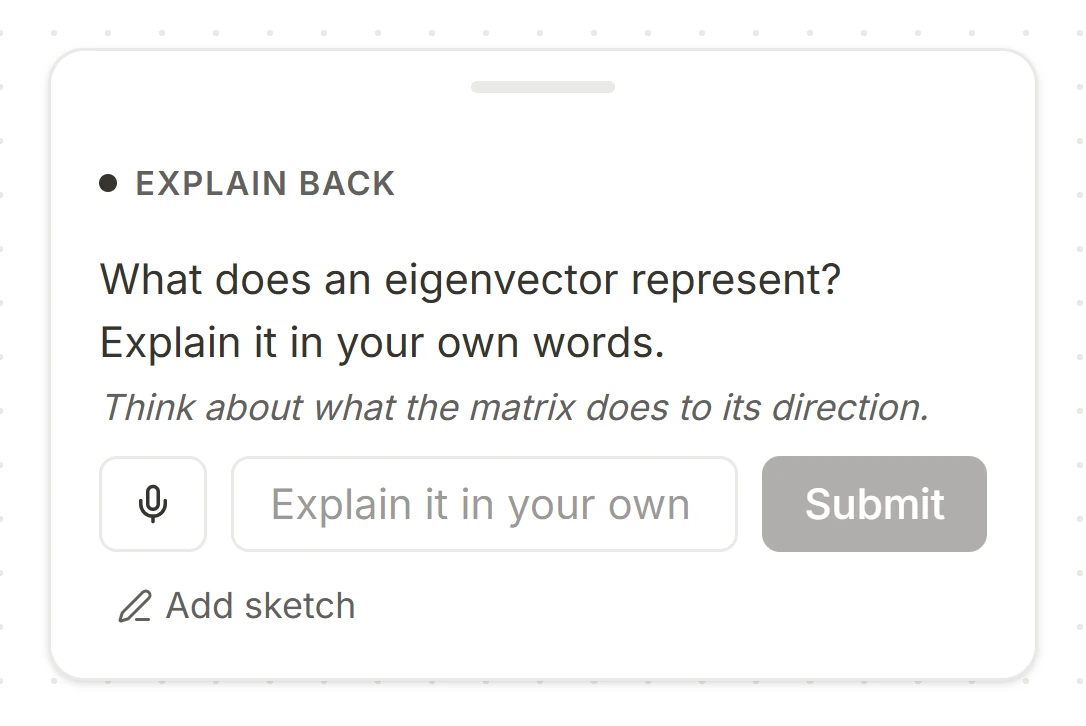
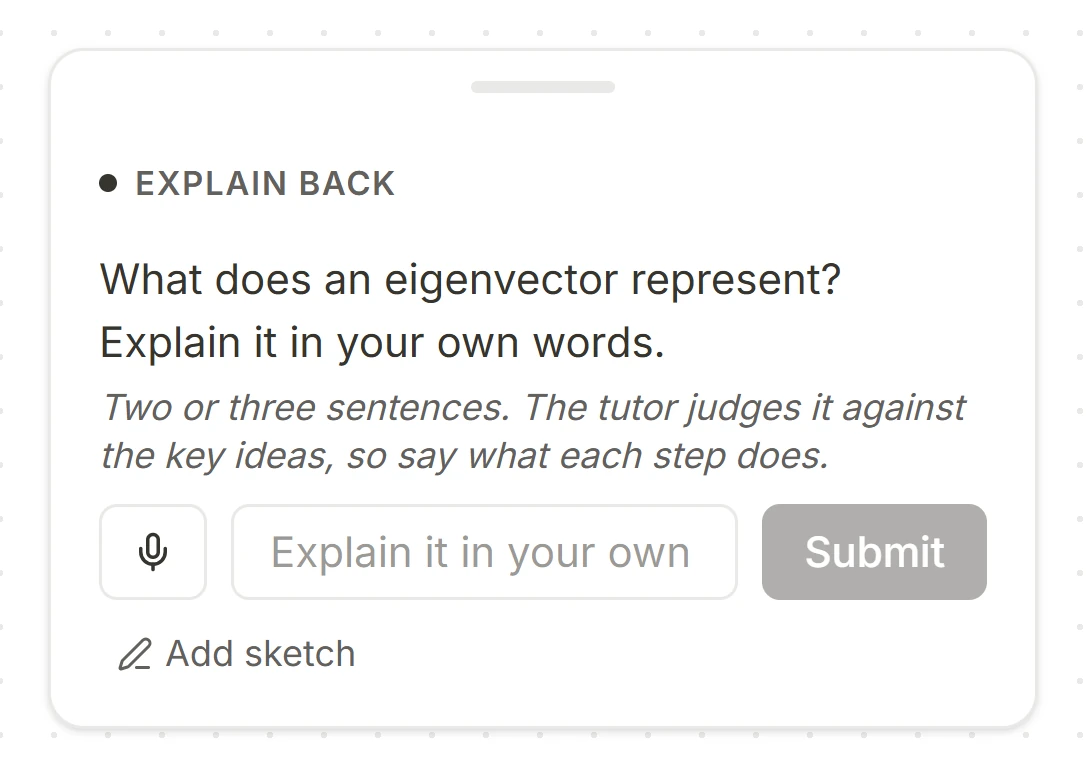
landing: Content creators view replaces Creators & writers; exam card uses the product's own hint line

diff --git a/packages/web/src/landing/audiences.js b/packages/web/src/landing/audiences.js
@@ -4,7 +4,7 @@ import './audiences.css';
 // `kind`) carry real captures of Rabbit Hole cards; the other two keep their neutral canvas placeholders. No
 // model calls or working product interactions inside these previews.
 const audiences = [
-  { name: 'Creators & writers', title: 'For creators & writers.', benefit: 'Turn deep research into something worth sharing.', context: 'Essays, newsletters and videos', source: 'Research & references', question: 'How do I explain attention clearly?', result: 'A clearer explanation', path: 'Research → understanding → your next story', note: 'Follow the idea back to its source.' },
+  { name: 'Content creators', kind: 'creators', title: 'Give your audience more to explore.', benefit: 'Share your knowledge and learn from your audience.' },
   { name: 'AI / ML engineers', kind: 'ml', title: 'From the paper to the code.', benefit: 'Understand new ideas and apply them to your work.' },
   { name: 'Educators', kind: 'educators', title: 'Prepare your next lesson.', benefit: 'Support for planning, explaining and teaching.' },
   { name: 'University students', kind: 'university', title: 'For university students.', benefit: 'Support for your coursework, assignments and exams.' },
@@ -40,7 +40,7 @@ const situations = [
     title: 'Understand a lecture.', question: '“How did they get from this equation to the next?”', support: 'Work through the missing steps using your lecture material.' },
   { name: 'problems', w: 500, h: 360, phone: [352, 350], alt: 'Rabbit Hole’s PDF reader open on Problem set 03: find the eigenvalues of A, where A is the two-by-two matrix with first row 2, 1 and second row 1, 2.',
     title: 'Work through an assignment.', question: '“I followed the example. Why can’t I solve this one?”', support: 'Get guidance where you’re stuck and practise applying the idea.' },
-  { name: 'eigen', w: 472, h: 242, phone: [362, 242], alt: 'A Rabbit Hole explain-back card asking: What does an eigenvector represent? Explain it in your own words. The answer field is empty.',
+  { name: 'eigen', w: 472, h: 258, phone: [362, 258], alt: 'A Rabbit Hole explain-back card asking: What does an eigenvector represent? Explain it in your own words. The answer field is empty.',
     title: 'Prepare for an exam.', question: '“Could I explain this without looking at my notes?”', support: 'Explain it back, answer practice questions and identify gaps.' },
 ];
 const layouts = {
@@ -52,6 +52,24 @@ const layouts = {
       <figure class="aud-capture aud-code" data-no-swipe><div class="aud-pan">${img('code', 672, 287, 'A Rabbit Hole code card for model.py, lines 66 to 71 of karpathy/nanoGPT: the manual attention calculation. It multiplies the queries by the transposed keys and scales by 1.0 / math.sqrt(k.size(-1)), applies a causal mask, takes a softmax and multiplies by the values.')}<span class="aud-mark aud-mark-l67" aria-hidden="true"></span><span class="aud-mark aud-mark-l69" aria-hidden="true"></span><span class="aud-mark aud-mark-l71" aria-hidden="true"></span></div></figure>
       <svg class="aud-links" viewBox="0 0 1000 320" preserveAspectRatio="none" aria-hidden="true"><path d="M440 235.5 C482 235.5 488 230.6 530 230.6"/><path d="M440 235.5 C482 235.5 488 258.5 530 258.5"/><path d="M440 235.5 C482 235.5 488 286.5 530 286.5"/></svg>
       <p class="aud-ask">Why divide by √d<sub>k</sub>?</p></div>`,
+  creators: () => `<div class="audience-body aud-creators">
+      <div class="aud-post"><p class="aud-label">Your post</p>
+        <article class="aud-postcard" aria-label="Example post by an example creator">
+          <header><span class="aud-avatar" aria-hidden="true">EC</span><span><strong>Example Creator</strong><small>Audio explainers</small></span></header>
+          <p>What changes when you reverse an audio recording?</p>
+          <p>I put the explanation in a Rabbit Hole canvas so you can explore it and try your own version.</p>
+          <img src="/landing/audience-creators-post-v1.webp" width="1200" height="640" alt="The post’s picture: two spectrograms of the same synthetic plucked tone, Original and Reversed. The reversed one is the original mirrored left to right." loading="lazy" decoding="async" draggable="false">
+          <div class="aud-postlink"><strong>Audio reversal: waveform and spectrum</strong><span>rabbit-hole.example/e/AudioRev7kQ2mX9pL4tNdE</span></div>
+        </article></div>
+      <span class="aud-arrow aud-arrow-1" aria-hidden="true">→</span>
+      <div class="aud-shared"><p class="aud-label">Your shared canvas</p>
+        <figure class="aud-capture">${img('creators-canvas', 1120, 580, 'The shared Rabbit Hole canvas Audio reversal: waveform and spectrum, opened from the post. The header shows the creator’s @handle, a Star button with a count of 1 and Fork with a count of 1. The canvas holds an Explanation card with bar charts of the loudness over time, original and reversed, and the same spectrum for both. The Comments panel shows a reader’s comment: what happens if you reverse only part of the audio?', [390, 600])}
+          <img class="aud-only-phone" src="/landing/audience-creators-comment-phone-v1.webp" width="390" height="236" alt="The reader’s comment in the Comments panel: what happens if you reverse only part of the audio?" loading="lazy" decoding="async" draggable="false"></figure></div>
+      <span class="aud-arrow aud-arrow-2" aria-hidden="true">→</span>
+      <div class="aud-engage"><p class="aud-label">What your audience explores</p>
+        <figure class="aud-capture">${img('creators-fork', 431, 252, 'A reader’s fork in their Rabbit Hole Library: What if only part is reversed? It reads Forked from Audio reversal: waveform and spectrum, with the original creator’s @handle.')}</figure>
+        <p class="aud-idea">An idea for the next post</p>
+        <figure class="aud-capture">${img('creators-engagement', 431, 346, 'The creator’s own profile: the Canvases tab and their public canvas Audio reversal: waveform and spectrum, with a Star button showing 1 and the footer 1 fork.')}</figure></div></div>`,
   interview: () => `<div class="audience-body aud-interview"><figure class="aud-capture">${img('twosum', 672, 312, 'A Rabbit Hole explain-back card for Two Sum. Question: You used a hash map instead of checking every pair. Why? What’s the trade-off? The learner’s answer: i can check if the other number is already in the map instead of going through the whole list again. Feedback under Understanding evidence: That explains the speed advantage. What happens to memory usage as you store more numbers?', [362, 374])}</figure></div>`,
   educators: () => `<div class="audience-body aud-educators">
       <div class="aud-source"><p class="aud-label">Your lecture slide</p><figure class="aud-capture">${img('slide', 500, 345, 'Rabbit Hole’s PDF reader open on linear-algebra-eigenvectors-slide.pdf: a lecture slide titled Eigenvectors with Av = λv, v ≠ 0, the sentence The transformation scales v by λ, and an example matrix with first row 2, 0 and second row 0, 1.', [352, 340])}</figure>

diff --git a/packages/web/src/landing/audiences.css b/packages/web/src/landing/audiences.css
@@ -137,3 +137,32 @@
   .aud-mark-eq{left:22.5%;top:80.8%;width:55%;height:11%}
   .aud-label{font-size:11px}
 }
+
+/* Content creators: post -> shared canvas -> audience participation. The post is landing layout (a neutral example, no brand); the canvas,
+   fork card and profile card are real Rabbit Hole captures. The shared canvas carries most of the weight; the arrows are decoration. */
+.aud-creators{align-self:center;justify-self:center;width:min(1320px,calc(100% + 140px),calc(100vw - 48px));display:grid;grid-template-columns:minmax(0,18.5fr) minmax(0,59.5fr) minmax(0,20.5fr);column-gap:24px;align-items:start;position:relative}
+.aud-creators .aud-capture img+img{border-top:1px solid var(--audience-line)}
+.aud-postcard{display:flex;flex-direction:column;gap:8px;padding:12px;border:1px solid var(--audience-line);border-radius:10px;background:#fff;font:400 13px/1.45 var(--ui);color:var(--audience-ink)}
+.aud-postcard header{display:flex;align-items:center;gap:8px}
+.aud-postcard header span:last-child{display:flex;flex-direction:column;line-height:1.25}
+.aud-postcard small{font-size:11px;color:var(--audience-muted)}
+.aud-postcard p{margin:0}
+.aud-avatar{display:grid;place-items:center;flex:none;width:32px;height:32px;border-radius:50%;background:var(--audience-blush);color:#70515c;font:600 11px/1 var(--ui)}
+.aud-postcard img{display:block;width:100%;height:auto;border-radius:6px;border:1px solid var(--audience-line)}
+.aud-postlink{display:flex;flex-direction:column;gap:2px;padding:8px 10px;border-radius:6px;background:#f4f3ef}
+.aud-postlink strong{font-weight:500;font-size:13px}
+.aud-postlink span{font-size:11px;color:var(--audience-muted);word-break:break-all}
+.aud-arrow{position:absolute;top:50%;color:#ba788f;font:400 18px/1 var(--ui);pointer-events:none}
+.aud-arrow-1{left:calc(18.5% + 4px)}.aud-arrow-2{left:calc(78% + 4px)}
+.aud-shared{margin-top:18px}
+.aud-engage .aud-capture{margin:0}
+.aud-idea{margin:10px 0 10px;padding-left:10px;border-left:2px solid #d8b9c3;font:500 13px/1.4 var(--ui);color:#70515c}
+.aud-capture img.aud-only-phone{display:none}
+@media(max-width:1100px){.aud-creators{column-gap:16px}.aud-arrow{display:none}}
+@media(max-width:900px){
+  .aud-creators{width:100%;display:flex;flex-direction:column;gap:28px}
+  .aud-arrow{display:none}
+  .aud-shared{margin-top:0}
+  .aud-capture img.aud-only-phone{display:block}
+  .aud-postcard{max-width:420px}
+}

diff --git a/packages/web/design/rabbit-hole-hero.html b/packages/web/design/rabbit-hole-hero.html
@@ -229,7 +229,7 @@ torch.softmax(scores, dim=-1)</pre></div>
         <div class="audience-navigation"><button type="button" data-audience-prev aria-label="Previous audience" aria-controls="audience-stories"><span aria-hidden="true">←</span></button><button type="button" data-audience-next aria-label="Next audience" aria-controls="audience-stories"><span class="audience-next-label">AI / ML engineers</span><span aria-hidden="true">→</span></button></div>
       </div>
       <p class="audience-announcement" role="status" aria-live="polite" aria-atomic="true"></p>
-      <noscript><p>For creators and writers, AI/ML engineers, educators, university students, new engineers and interview preparation. Explore the <a href="/features">features</a> to find your starting point.</p></noscript>
+      <noscript><p>For content creators, AI/ML engineers, educators, university students, new engineers and interview preparation. Explore the <a href="/features">features</a> to find your starting point.</p></noscript>
     </div>
   </section>
 

diff --git a/docs/features/rabbit-hole-audiences.md b/docs/features/rabbit-hole-audiences.md
@@ -64,3 +64,16 @@ Enterprise onboarding keep the placeholder. Brief: C:/s/spec/landing-audiences/B
 - Pinned scrolling now needs a viewport at least 880px tall (was 760px) because these layouts need about 590px of
   slide area; shorter screens use the manual selector, arrows and swipe. In manual mode the four views take their
   natural height. The code card pans sideways on a phone and is excluded from the swipe gesture.
+
+## Content creators (2026-10-28)
+
+Replaces the Creators & writers view (Enterprise onboarding keeps its placeholder). Layout `creators`: a neutral example post (landing HTML,
+no brand; its picture is an original synthetic spectrogram, `audience-creators-post-v1.webp`), the real shared canvas page `/e/<token>` (header
+with @handle, Star, Fork and the Comments panel), a reader's fork card from the Library ("Forked from ...") and the creator's own profile card
+(Star count, "1 fork"). Phone crops: `audience-creators-canvas-phone-v1.webp`, `-comment-phone-v1.webp`.
+
+Capabilities checked in code before capture: shared page, public comments, Star, Fork with fork provenance, creator profile and its
+Analytics panel all exist. Creator analytics stores nothing yet: its panel shows "Not collected yet" for everything except the canonical fork
+count and the public board count, so the landing shows the profile card counters instead and no analytics panel. The prepared demo is one
+reader (one star, one comment, one private fork); nothing here is real engagement. Sources and scripts: C:/s/spec/landing-audiences/capture
+(`creators.mjs`, `capture-creators.mjs`, `make-post-visual.py`, `optimise-creators.py`).
